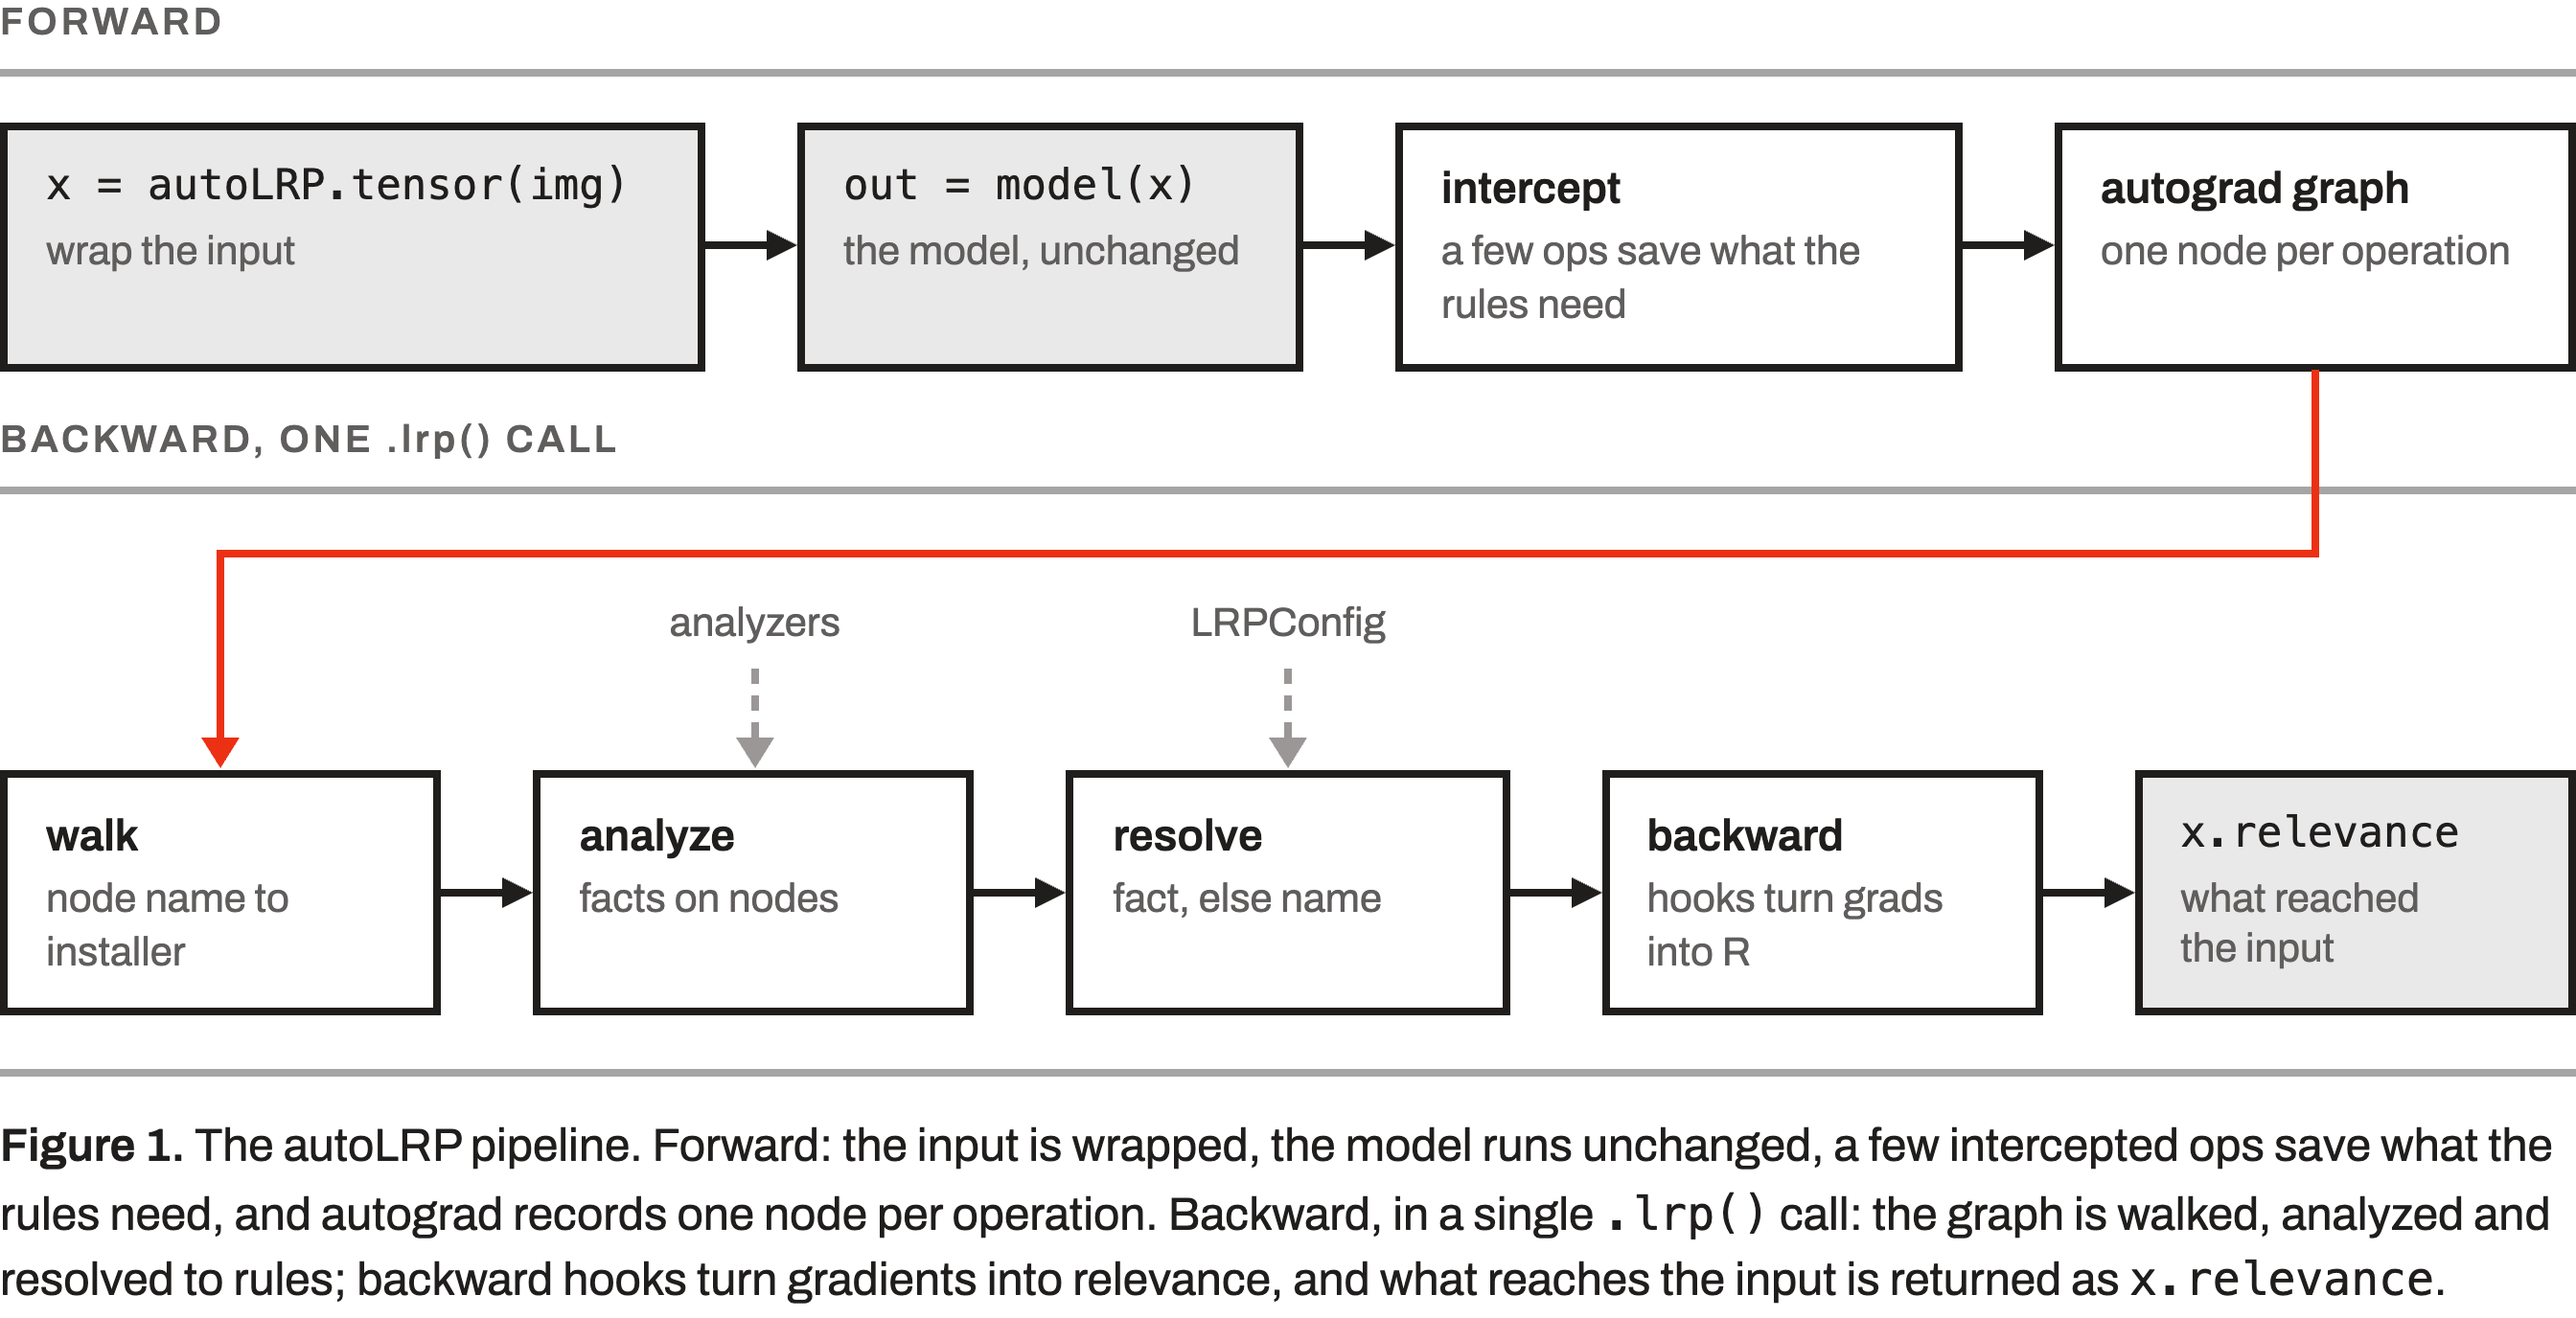
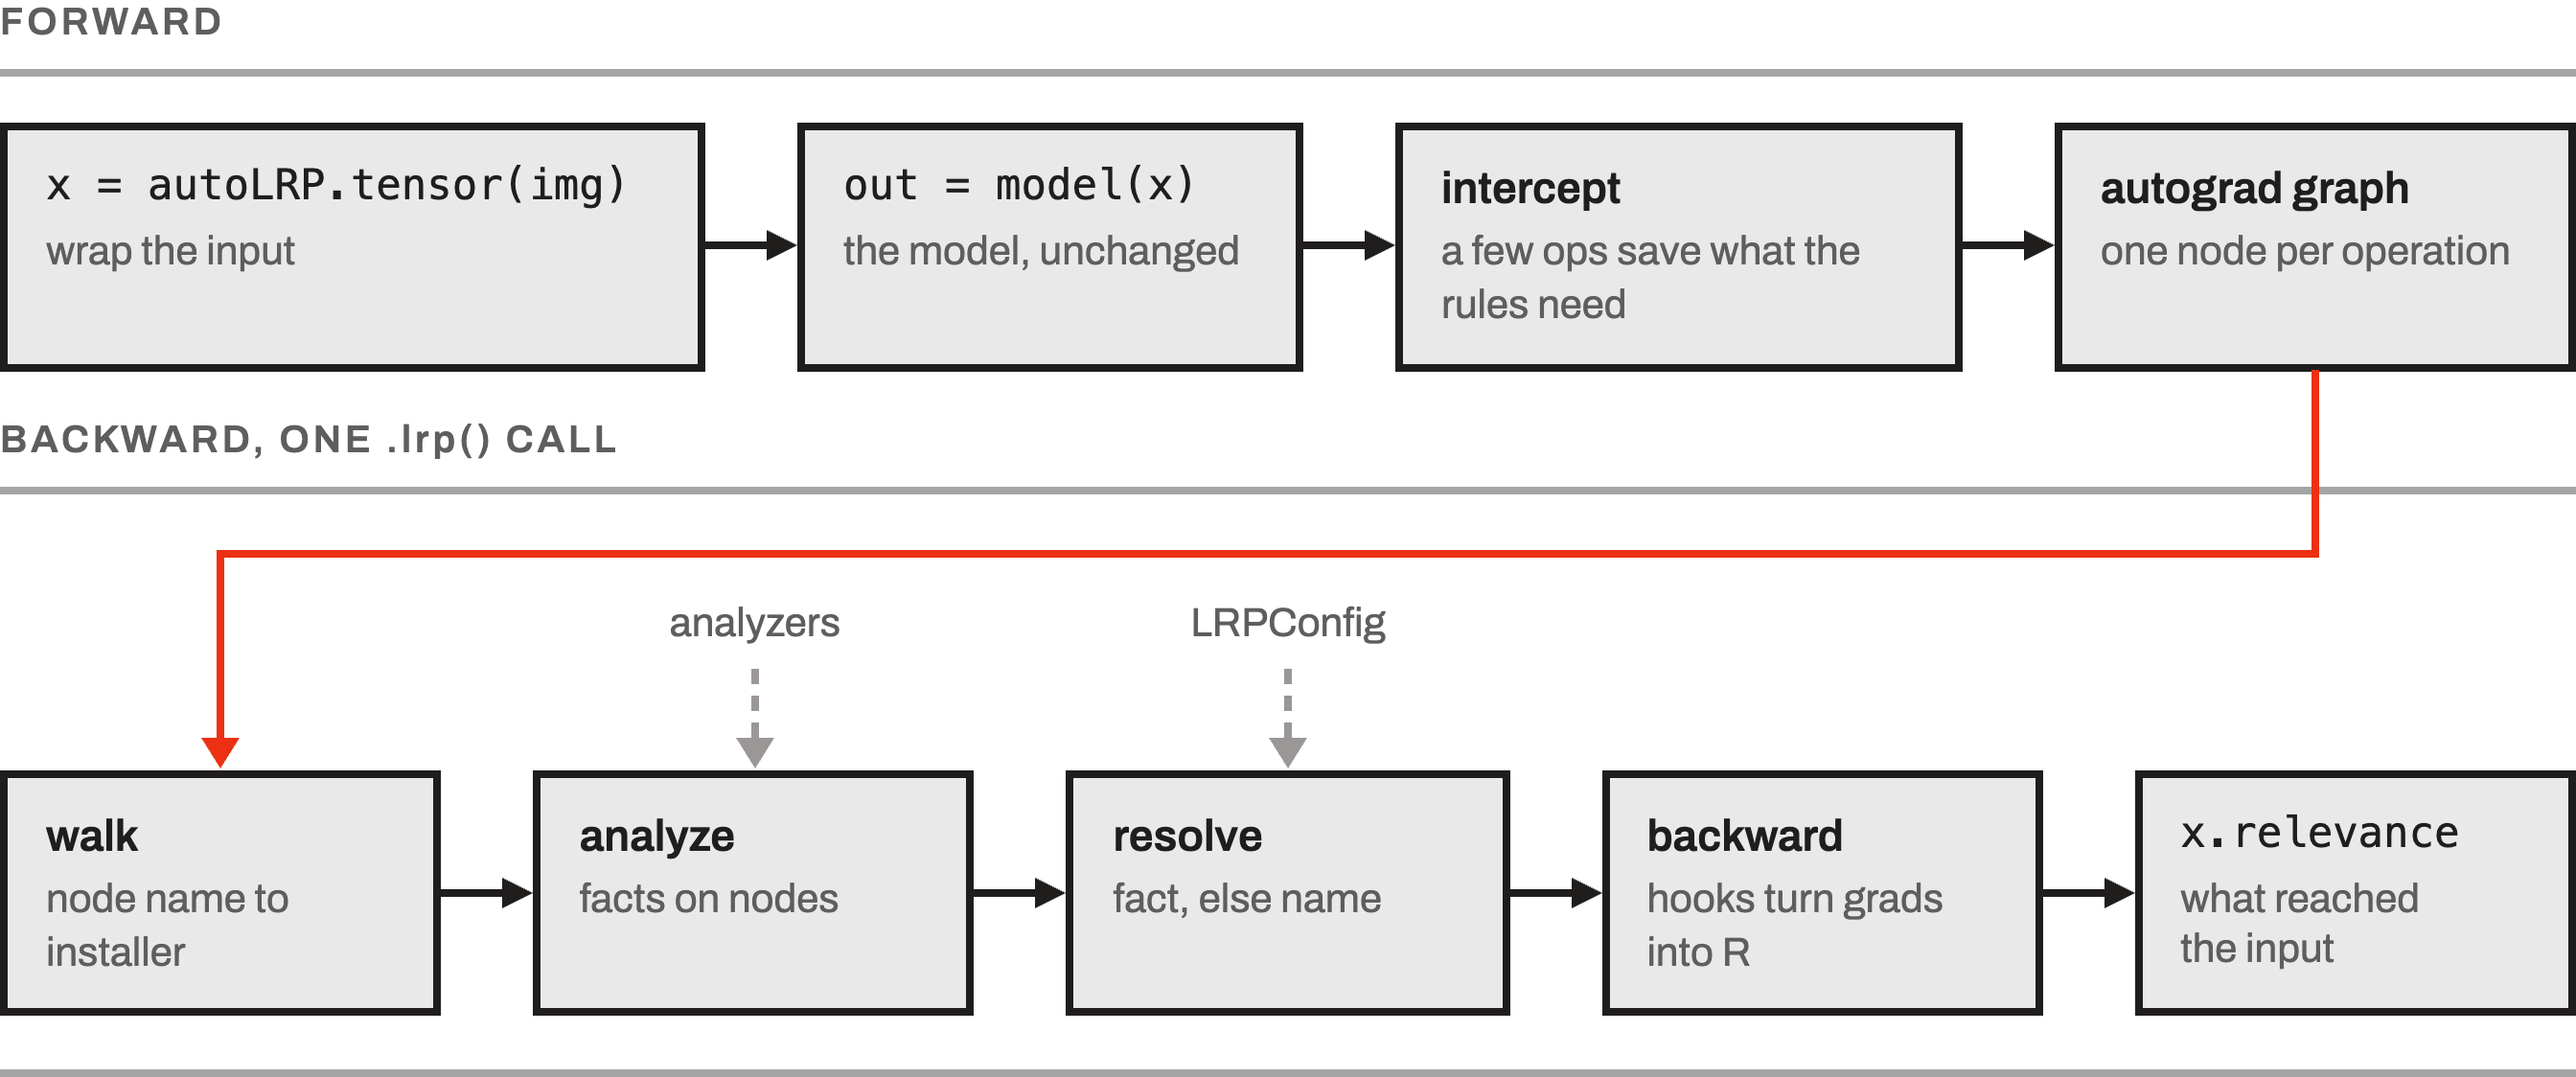
update pipeline diagram

diff --git a/README.md b/README.md
@@ -117,7 +117,7 @@ Notebook: [attention presets](examples/showcase/extras/03_attention_fused_vs_dec
 pass already built:
 
 <p align="center">
-  <img src="https://raw.githubusercontent.com/Wa-lead/autoLRP/main/assets/pipeline.png?v=1" width="100%">
+  <img src="https://raw.githubusercontent.com/Wa-lead/autoLRP/main/assets/pipeline.png?v=2" width="100%">
 </p>
 
 1. **wrap.** `autoLRP.tensor(x)` marks the input. A handful of ops (`add`,
